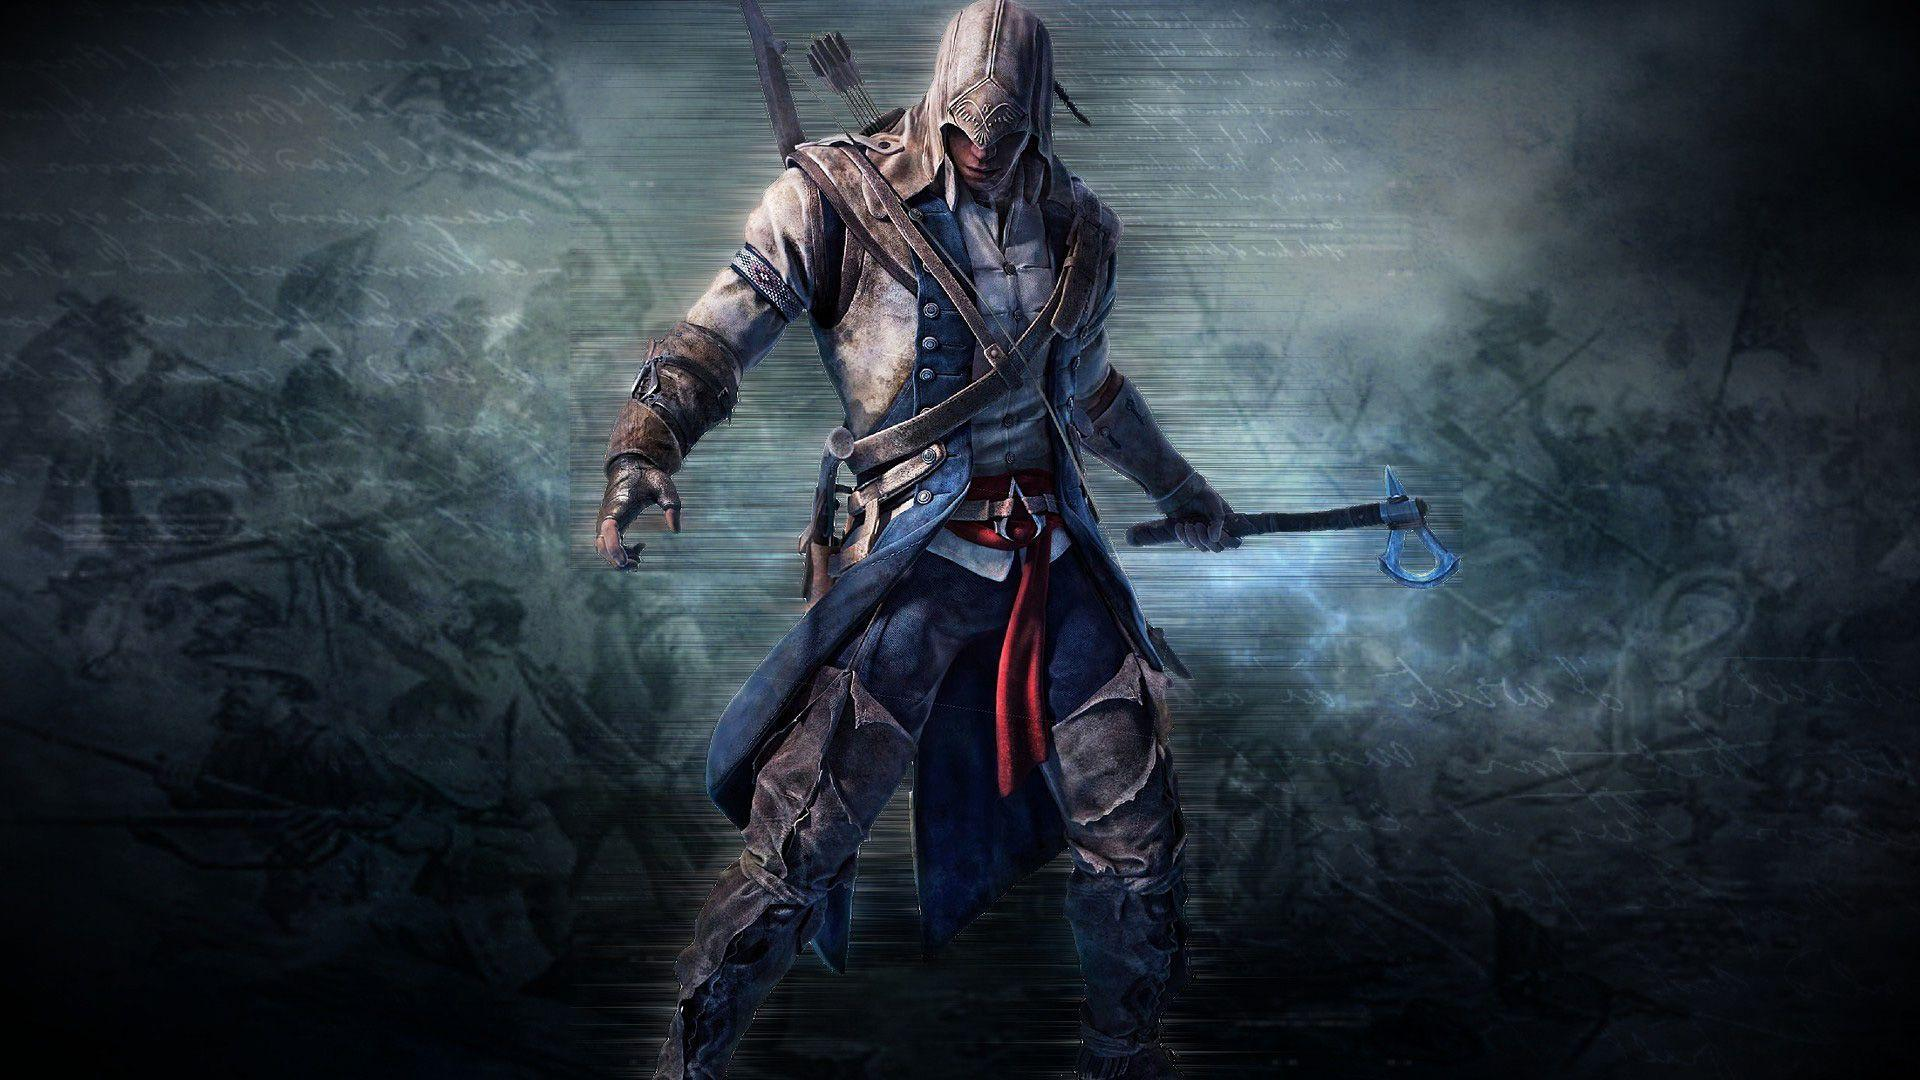
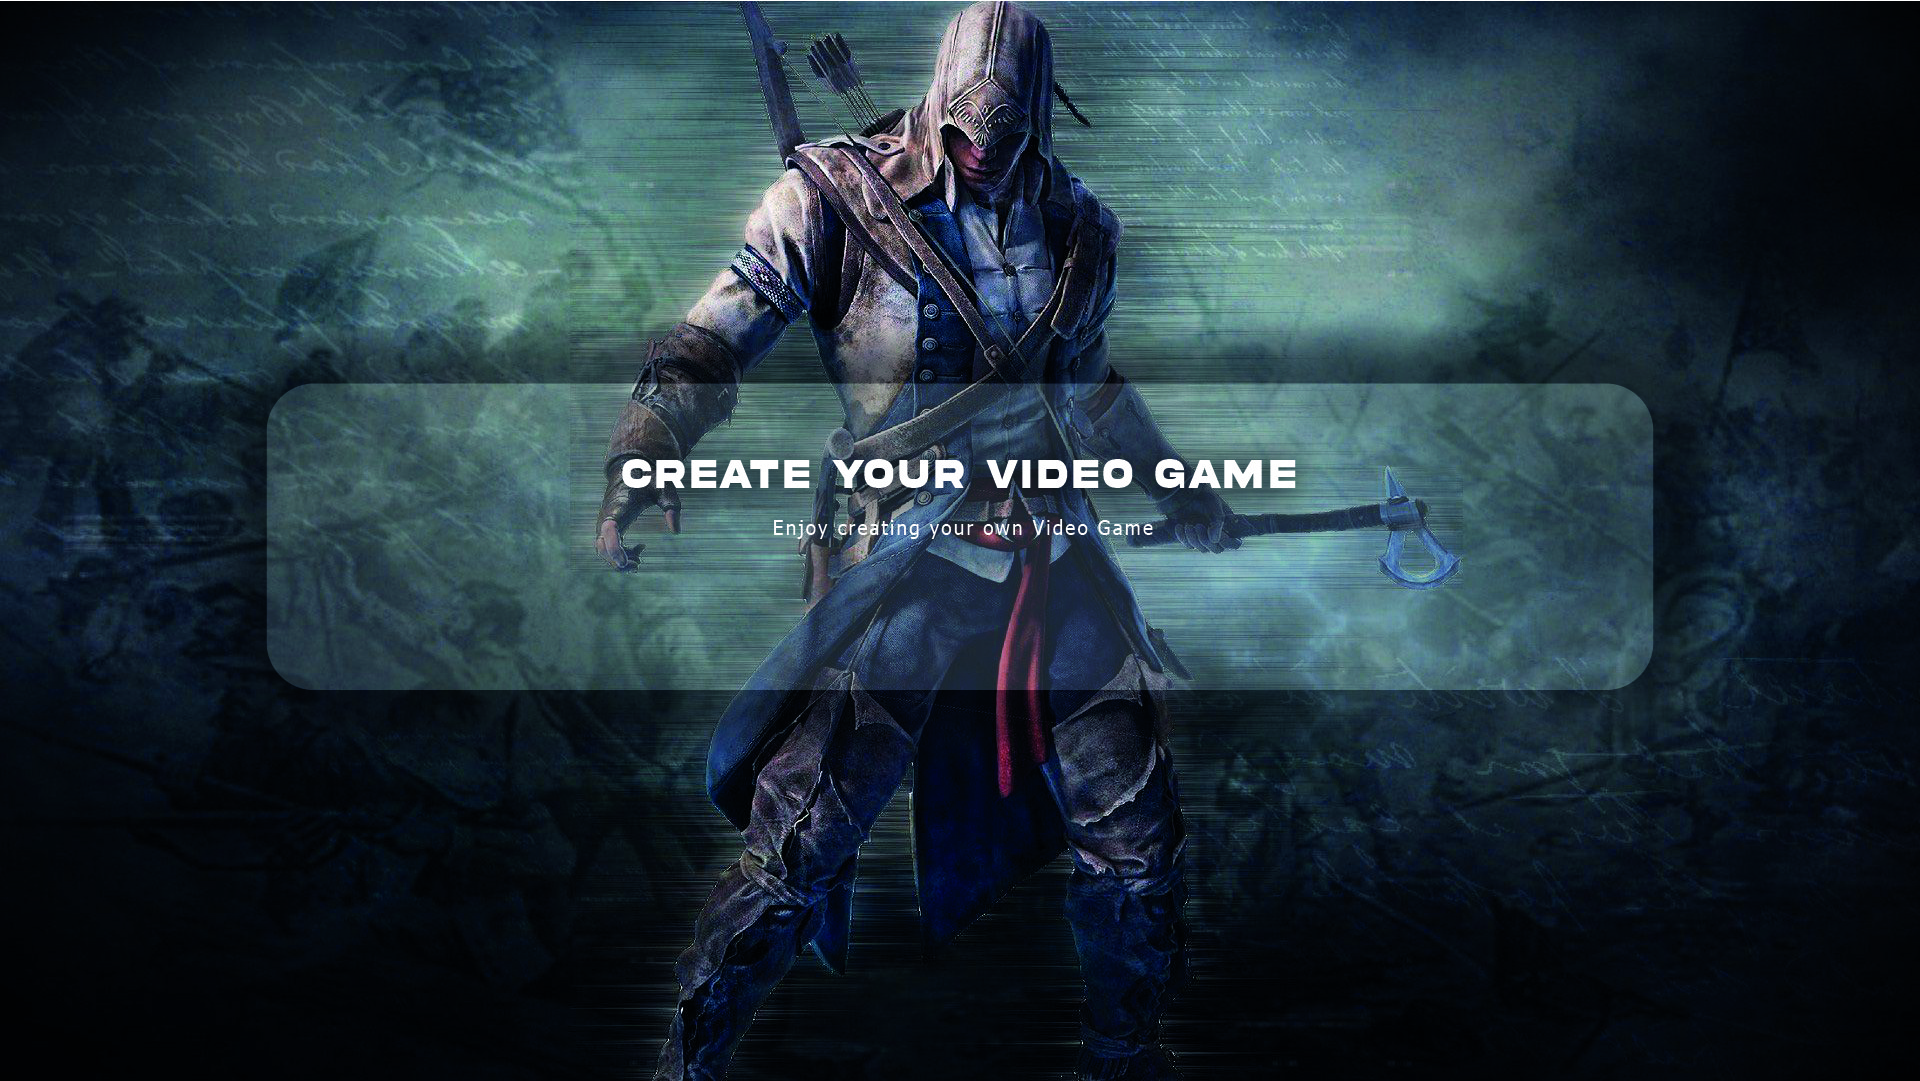
cambio de api key

Changed region(s): [[0.0312, 0.0, 0.9375, 1.0], [0.0312, 0.4583, 0.0625, 0.5194], [0.0, 0.275, 0.0312, 0.3056]]

diff --git a/client/src/components/GameDetail.jsx b/client/src/components/GameDetail.jsx
@@ -46,54 +46,59 @@ export const GameDetail = (props) => {
     if (gameDetail.msg) return (<><button><Link to='/home'>Back</Link></button><NotFound /></>)
     
     return (
-        <>
-            <Nav />
-            { loading ? <Loading /> :          
-                <div>
-                    <button><Link to='/home'>Back</Link></button>
-                    <h3>{gameDetail?.name}</h3><br />      
-                    <img src={gameDetail?.img} alt={gameDetail?.name} />                           
-                    <span>Rating </span>
-                    { gameDetail.rating && <span>{gameDetail.rating}</span> }
-                    <span>Released </span>
-                    { gameDetail.released && <span>{gameDetail.released}</span> }
-                    <span>Genres</span>
-                    { gameDetail.genres?.map((g, i) => {
-                        if (typeof gameDetail.genres[0] === 'string') {
-                            if(i === 0) {
-                                return <span key={i}>{g}</span>
-                            } else {
-                                return <span key={i}><span> | </span><span>{g}</span></span>
+        <div className='mainContainerdet'>   
+            <div className='navConteinerdet '><Nav /></div>            
+                { loading ? <Loading /> :          
+                <div className='cardContaindet'>
+                    <div className='carddet'>
+                        <button><Link to='/home'>Back</Link></button>
+                        <h2 className='detname'>{gameDetail?.name}</h2>     
+                        <img src={gameDetail?.img} alt={gameDetail?.name} />                           
+                        <div>
+                            <span className="stardet">&#9733;</span>
+                            { gameDetail.rating && <h3 className='ratdet'>Rating: {gameDetail.rating}</h3> }
+                        </div>
+                        { gameDetail.released && <h3 className='ratdet'>Released: {gameDetail.released}</h3> }
+                        <span>Genres</span>
+                            { gameDetail.genres?.map((g, i) => {
+                                if (typeof gameDetail.genres[0] === 'string') {
+                                    if(i === 0) {
+                                        return <span key={i}>{g}</span>
+                                    } else {
+                                        return <span key={i}><span> | </span><span>{g}</span></span>
+                                    }
+                                } else {
+                                    if(i === 0) {
+                                        return <span key={i}>{g.name}</span>
+                                    } else {
+                                        return <span key={i}><span> | </span><span>{g.name}</span></span>
+                                    }
+                                }
+                            })}
+                        <span>Platforms</span>
+                        { gameDetail.platforms?.map((p, i) => {
+                            if (i === 0) {
+                                return <span key={i}>{p}</span>
                             }
-                        } else {
-                            if(i === 0) {
-                                return <span key={i}>{g.name}</span>
-                            } else {
-                                return <span key={i}><span> | </span><span>{g.name}</span></span>
-                            }
-                        }
-                    })}
-                    <span>Platforms</span>
-                    { gameDetail.platforms?.map((p, i) => {
-                        if (i === 0) {
-                            return <span key={i}>{p}</span>
-                        }
-                        return (
-                        <span key={i} >{p}</span>
-                        )
-                    })}
-                    <span>Description</span>
-                    <div dangerouslySetInnerHTML={modifyDescription()} />
-                </div> 
-            }
-            {idDb && 
-                <div >
-                    <Link to={`/game/${id}/update`}>
-                    <button type="button" onClick={handleUpdate}>Update</button>
-                    </Link>
-                    <button type="button" onClick={handleDelete}>Delete</button>
+                            return (
+                            <span key={i} >{p}</span>
+                            )
+                        })}
+                        <span>Description</span>
+                        <div dangerouslySetInnerHTML={modifyDescription()} />
+                    </div>
                 </div>
-            }
-        </>
+                }
+                {idDb && 
+                    <div >
+                        <Link to={`/game/${id}/update`}>
+                        <button type="button" onClick={handleUpdate}>Update</button>
+                        </Link>
+                        <button type="button" onClick={handleDelete}>Delete</button>
+                    </div>
+                }
+            <div className='slidesdet'></div>
+            <div className='pagContainerdet'></div>
+        </div>                  
     )
 };

diff --git a/client/src/components/Landing.jsx b/client/src/components/Landing.jsx
@@ -13,12 +13,7 @@ export const Landing = () => {
         <>
           <Section id="1" style={{ backgroundImage: `url(${img2})` }}>
             
-            <div style={{ zIndex: 1 }}>
-              <header>
-                <h1>NO TIENE CSS PRIMO !! </h1>
-              </header>
-            </div>
-
+            <div style={{ zIndex: 1 }}></div>
             <a href="#2" className="btnMove">
               <input type="image" src={arrowDown} alt="arrow down" />
             </a>
@@ -26,12 +21,6 @@ export const Landing = () => {
     
           <Section id="2" style={{ backgroundImage: `url(${img4})` }}>
             <IntroConteiner>
-              <h2>Find your favorite Video Games</h2>
-              <p>
-                You can search all available Video Games from our page. 
-                Your search can be filtered by genre, platform, and sorted
-                alphabetically or by rating.
-              </p>
               <Link to="/home" onClick={() => window.scroll(0, 0)}>
                 <button>Search</button>
               </Link>
@@ -43,10 +32,6 @@ export const Landing = () => {
     
           <Section id="3" style={{ backgroundImage: `url(${img3})` }}>
             <IntroConteiner>
-              <h2>Create your Video Game</h2>
-              <p>
-              Enjoy creating your own Video Game
-              </p>
               <Link to="/create" onClick={() => window.scroll(0, 0)}>
                 <button>Create</button>
               </Link>
@@ -94,12 +79,6 @@ const Section = styled.section`
     z-index: 0;
     animation: ${fadeIn} 5s ease-out;
   }
-  h1 {
-    font: bold 300% cursive;
-    text-align: center;
-    margin-bottom: 90px;
-    color: white
-  }
   .btnMove {
     position: absolute;
     top: 90%;
@@ -108,8 +87,8 @@ const Section = styled.section`
     }
     input[type="image"] {
       padding: 10px;
-      width: 40px;
-      height: 40px;
+      width: 20px;
+      height: 20px;
       font-size: 20px;
       background-color: transparent;
       border: 1px solid white;
@@ -127,15 +106,17 @@ const IntroConteiner = styled.article`
   z-index: 2;
   text-align: center;
   width: 70%;
-  background-color: rgba(255, 255, 255, 0.3);
   padding: 15px 50px 30px 50px;
   button {
     background-color: transparent;
     border: 1px solid white;
+    margin-top: 10rem;
+    border-radius: 6px;
+    color: #ffffff;
     padding: 5px 20px 5px 20px;
     cursor: pointer;
     &:hover {
-      background-color: black;
+      background-color: #ffffff;
     }
   }
   @media screen and (max-width: 700px) {

diff --git a/client/src/components/GameDetail.css b/client/src/components/GameDetail.css
@@ -1,22 +1,78 @@
-/* .det {
-    display: flex;
-    flex-direction: row;
-
+.mainContainerdet {
+    position: relative;
+    display: grid;
+    grid-template-columns: repeat(5, 1fr);
+    grid-template-rows: repeat(5, 1fr);
+    grid-column-gap: 7px;
+    grid-row-gap: 7px; 
+}
+    
+.navConteinerdet {
+    height: 100%;
+    box-shadow: rgba(0, 0, 0, 0.7) 0px 0px 30px 0px;
+    position: fixed;
+    z-index: 100;
+    background: rgb(45, 45, 45);
 }
 
-img {
-    width: 30%;
-    height: 30%;
+.pagContainerdet {
+    align-items: center;
+    position: fixed;
+    bottom: 0px;
+    width: 100%;
+    background: rgb(53, 48, 48);
+    height: 80px;
 }
 
-.det2 {
+.slidesdet {
+    position: fixed;
+    width: 100%;
+    background: rgb(53, 48, 48);
+    height: 80px;
+}
+
+.cardContaindet {
+    grid-area: 1 / 2 / 6 / 6;
+    margin-top: 7rem;
+    margin-left: 7rem;
+    width: 100%;
+}
+
+h1, h2, h3, h5, a, span, label, p, li {
+    color: white;
+    text-decoration: none;
+}
+
+.stardet {
+    position: relative;
+    font-size: 1.5rem;
+    top: 0rem;
+    padding-right: 1rem;
+    padding-top: .9rem;
+}
+
+.carddet {
+    position: relative;
     flex-direction: column;
-    align-items: center;   
-    align-items: center;  
-    margin: .5rem;
-    padding: .5rem;
-    font-size: .8rem;
+    text-align:left;
+    border-radius: .5rem;
+    margin-top: 20rem;
+    margin: .7rem 2%;
+    padding-left: 32%;
+    padding-bottom: 1.5rem;
+    overflow: hidden;
     background-color: rgba(255, 255, 255, 0.249);
-    margin: 5rem;
-    padding: 5rem;
-} */
+}
+
+.ratdet {
+    font-size: 1.2rem;
+    padding-top: 1.2rem;
+    margin: 0;
+}
+
+.detname {
+    font-size: 1.4rem;
+    padding-top: .7rem;
+    margin: 0;
+    color: rgb(218, 118, 118);
+}

diff --git a/client/src/components/Home.jsx b/client/src/components/Home.jsx
@@ -71,15 +71,15 @@ export const Home = () => {
             <div className='navConteiner'>    
                     <Nav />
                     <SearchBar />
-                    { loading ? '' : games.length && !gameByName.msg && <span >✓ {games.length} results</span> }
+                    { loading ? '' : games.length && !gameByName.msg &&
+                    <span className='homespan'>✓ {games.length} results</span> }
                     <Filters />
                     <SetFilters />   
             </div>
                 {loading && <Loading />}
                 {notFound && <NotFound />}
                 {!loading && !!currentGames.length && !notFound &&
-            <div className='cardsContain'>      
-                  
+            <div className='cardsContain'>              
                 {currentGames?.map(e => (
                         <div key={e.id} className='card'>
                             <Link to={'/game/' + e.id }>

diff --git a/client/src/components/Home.css b/client/src/components/Home.css
@@ -68,9 +68,9 @@ select:hover {
     background-color: rgb(140, 46, 46);
 }
 
-span {
+.homespan {
     position: relative;
-    top: 5rem;
+    top: rem;
     color: white;
     font-size: .9rem;
     margin-left: 1rem;

diff --git a/client/src/components/Pagination.css b/client/src/components/Pagination.css
@@ -28,7 +28,8 @@
 
 .pagspan {
     position: absolute;
-    /* margin: 0; */
-    /* padding-top: .5rem; */
+    padding-top: .4rem;
     color: white;
+    font-size: .9rem;
+    font-weight: 700;
 }
